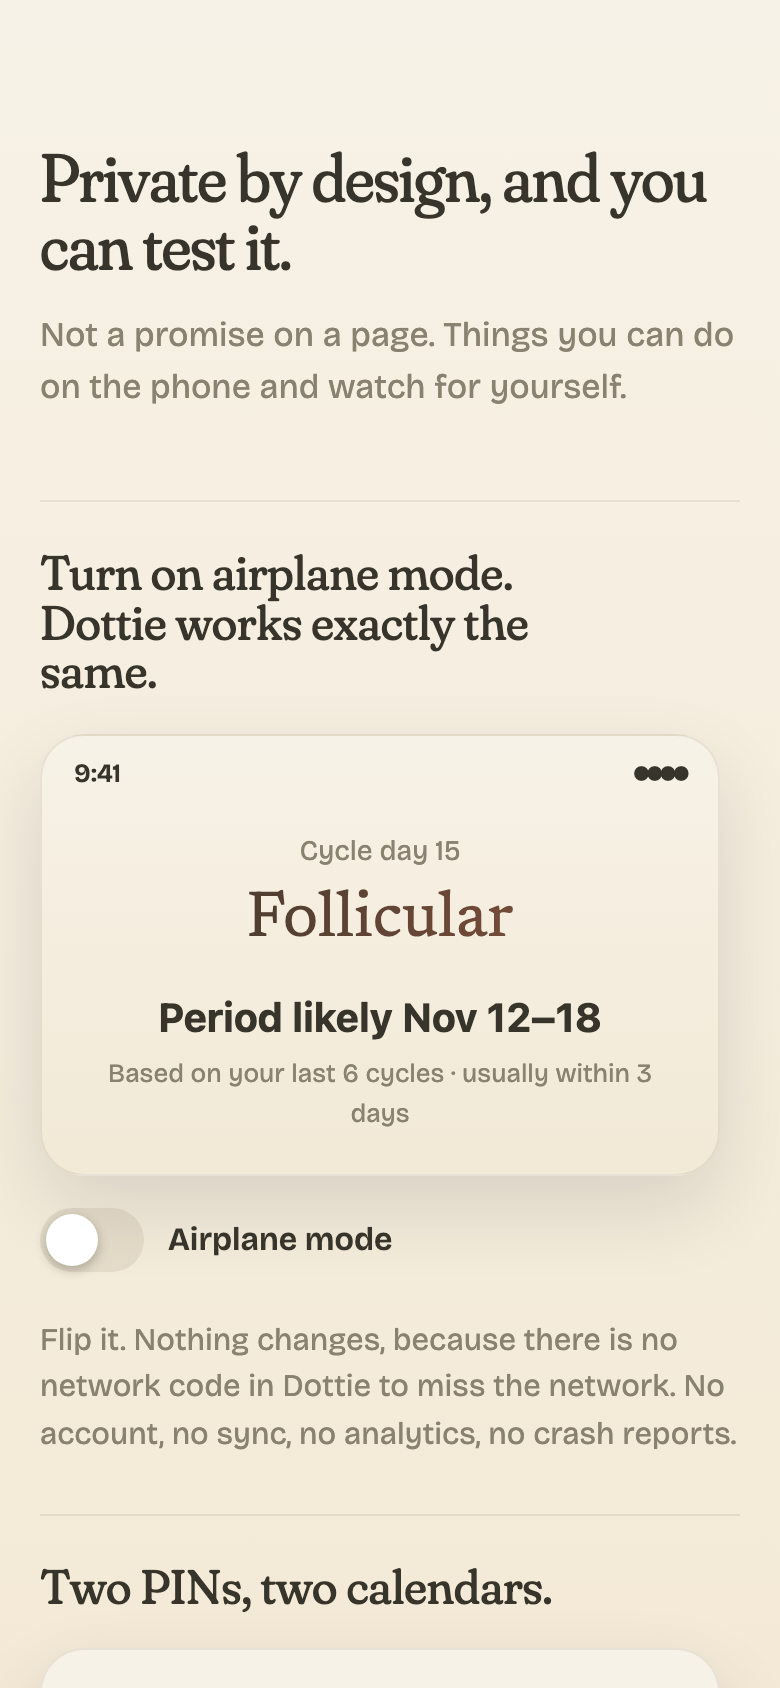
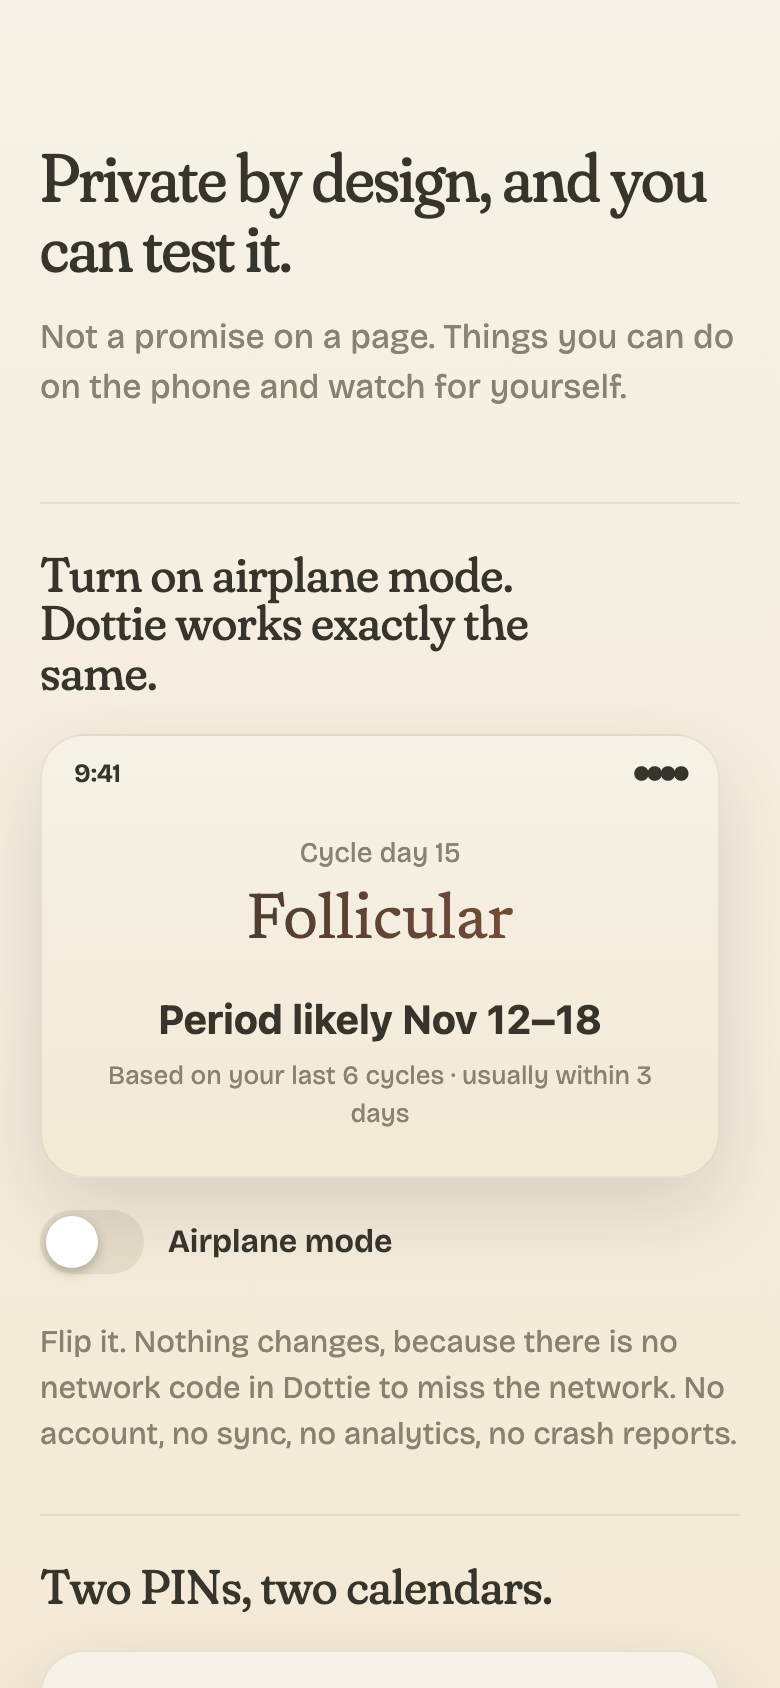
Phone-width stage: opaque ground above the steps, steps trigger lower in the viewport; section tour screenshots

diff --git a/assets/css/site.css b/assets/css/site.css
@@ -85,10 +85,10 @@ h1 { font-size: clamp(44px, 8.5vw, 104px); line-height: 0.98; letter-spacing: -0
 }
 
 /* ---- 2 · the ring becomes her cycle ------------------------------------------ */
-.cycle { background: linear-gradient(180deg, var(--m-bg3), var(--m-bg2) 50%, var(--m-bg3)); padding: 24px 20px 40px; }
+.cycle { background: var(--m-bg3); padding: 24px 20px 40px; }
 .cycle__inner { max-width: var(--max); margin: 0 auto; display: grid; gap: 0; }
-.stage { position: sticky; top: 0; height: 54svh; display: grid; place-items: center; z-index: 1; background: linear-gradient(180deg, var(--m-bg3) 0%, var(--m-bg3) 86%, transparent); }
-.stage__visual { position: relative; width: min(66vw, 38svh); aspect-ratio: 1; }
+.stage { position: sticky; top: 0; height: 54svh; display: grid; place-items: center; z-index: 3; background: var(--m-bg3); }
+.stage__visual { position: relative; width: min(66vw, 42svh); aspect-ratio: 1; }
 .layer { position: absolute; inset: 0; opacity: 0; transition: opacity 0.6s ease, transform 0.6s ease; transform: scale(0.96); }
 .stage[data-step="ring"] .layer--ring, .stage[data-step="calendar"] .layer--calendar, .stage[data-step="chart"] .layer--chart { opacity: 1; transform: none; }
 .layer--ring .ring { width: 100%; }
@@ -113,8 +113,8 @@ h1 { font-size: clamp(44px, 8.5vw, 104px); line-height: 0.98; letter-spacing: -0
 .ch-label { fill: var(--m-ink-soft); font-size: 12px; text-anchor: middle; }
 .ch-title { fill: var(--m-ink); font-size: 15px; font-weight: 600; }
 .ch-sub { fill: var(--m-ink-soft); font-size: 12px; }
-.steps { display: grid; gap: 34svh; padding: 10svh 0 30svh; }
-.step { max-width: 46ch; position: relative; z-index: 2; }
+.steps { display: grid; gap: 40svh; padding: 6svh 0 30svh; }
+.step { max-width: 46ch; position: relative; z-index: 1; }
 .step h2 { font-size: clamp(30px, 4vw, 52px); margin-bottom: 14px; }
 .step p { color: var(--m-control); font-size: 17px; margin: 0 0 10px; }
 .step__quote { font-family: var(--display); font-variation-settings: 'opsz' 36, 'SOFT' 100; font-size: 22px; color: var(--m-accent-deep); }

diff --git a/assets/js/site.js b/assets/js/site.js
@@ -43,11 +43,11 @@
     var ws = D.windowStart, we = D.windowEnd, start = D.lastPeriodStart;
     for (var i = 1; i <= n; i++) {
       var d = new Date(y, m, i), col = (first + i - 1) % 7, row = Math.floor((first + i - 1) / 7);
-      var cx = cell * col + cell / 2, cy = 125 + row * 84, cls = 'cal-day';
+      var cx = cell * col + cell / 2, cy = 125 + row * 76, cls = 'cal-day';
       var day = Math.round((d - start) / 86400000) + 1, ov = D.avgCycle - 14;
       if (d >= ws && d <= we) cls += ' expected';
       else if (d < ws) cls += day < ov - 1 ? ' follicular' : day <= ov + 1 ? ' ovulatory' : ' luteal';
-      parts.push('<circle class="' + cls + '" cx="' + cx.toFixed(1) + '" cy="' + cy + '" r="34"/>');
+      parts.push('<circle class="' + cls + '" cx="' + cx.toFixed(1) + '" cy="' + cy + '" r="32"/>');
       parts.push('<text class="cal-num" x="' + cx.toFixed(1) + '" y="' + (cy + 4) + '">' + i + '</text>');
     }
     return '<svg viewBox="0 0 600 600" aria-hidden="true">' + parts.join('') + '</svg>';
@@ -75,7 +75,7 @@
   if (stage && steps.length && 'IntersectionObserver' in window) {
     var io = new IntersectionObserver(function (entries) {
       entries.forEach(function (e) { if (e.isIntersecting) stage.setAttribute('data-step', e.target.getAttribute('data-goto')); });
-    }, { rootMargin: '-45% 0px -45% 0px', threshold: 0 });
+    }, { rootMargin: window.innerWidth < 960 ? '-56% 0px -8% 0px' : '-45% 0px -45% 0px', threshold: 0 });
     steps.forEach(function (s) { io.observe(s); });
   }
 
